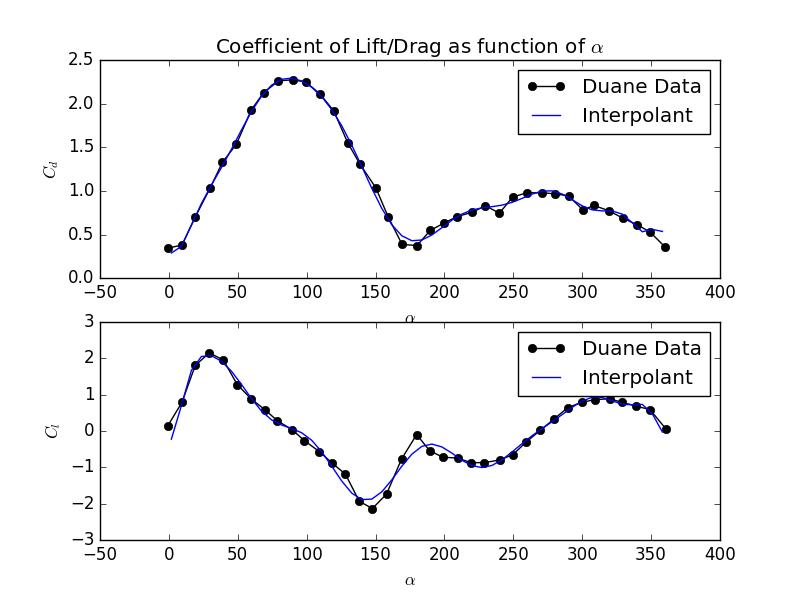
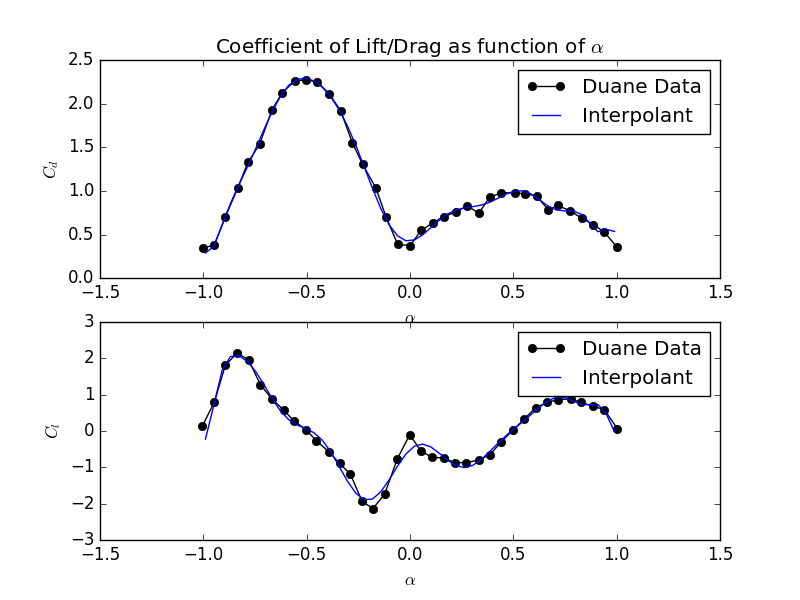
converting to [-1,1] domain from [0,360], e.g. degrees-->rads

diff --git a/disputatio/routines/drag_polars/semi.py b/disputatio/routines/drag_polars/semi.py
@@ -1,6 +1,15 @@
 import numpy as np
 import matplotlib.pyplot as plt
 
+def poly_print(c,name):
+    #
+    # prints coefficients for lift or drag functions
+    #
+    print c
+    print name
+
+    return 0
+
 def reader(fl):
     #
     # reads a file and returns function values
@@ -47,6 +56,9 @@ anglecl, cl = reader(f2)
 #rad = np.linspace(0.0, 360.0)
 #
 
+anglecd = -1 + 2*np.array(anglecd)/360.0
+anglecl = -1 + 2*np.array(anglecl)/360.0
+
 #
 # interpolate!
 # interp1d(x, y, kind='cubic')
@@ -54,18 +66,24 @@ anglecl, cl = reader(f2)
 #from scipy.interpolate import interp1d
 from numpy.polynomial import polynomial as P
 
+print anglecd
+
 inter_cd,stat_cd = P.polyfit(anglecd, cd, 16,full=True)
 inter_cl,stat_cl = P.polyfit(anglecl, cl, 16,full=True)
 
 rad    = np.linspace(-0.99, 0.99)
 t      = (rad+np.pi)%np.pi - np.pi/2.0
-anglei = (rad+1)*180.0
+#anglei = (rad+1)*180.
+anglei = rad
 
 #cdi = np.cos(2 * np.pi * rad) * np.exp(-rad)
 #cli = np.cos(2 * np.pi * rad)
 
 #cli = np.where(abs(t) > np.pi/24., t, np.sin(2*t))
 #cdi = np.where(abs(t) > np.pi/24., t*t*81/25., 1-0.8*np.cos(2*t))
+
+poly_print(inter_cl,'lift')
+poly_print(inter_cd,'drag')
 
 #
 # plot!
